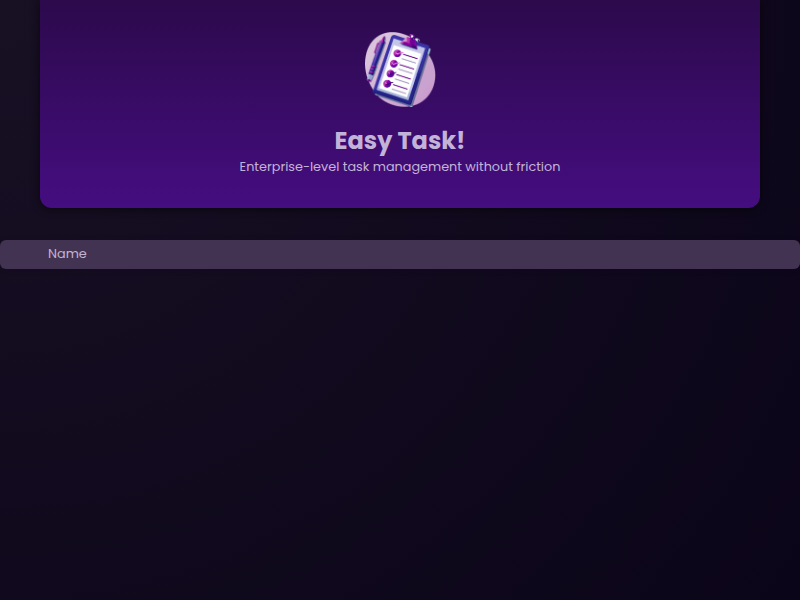
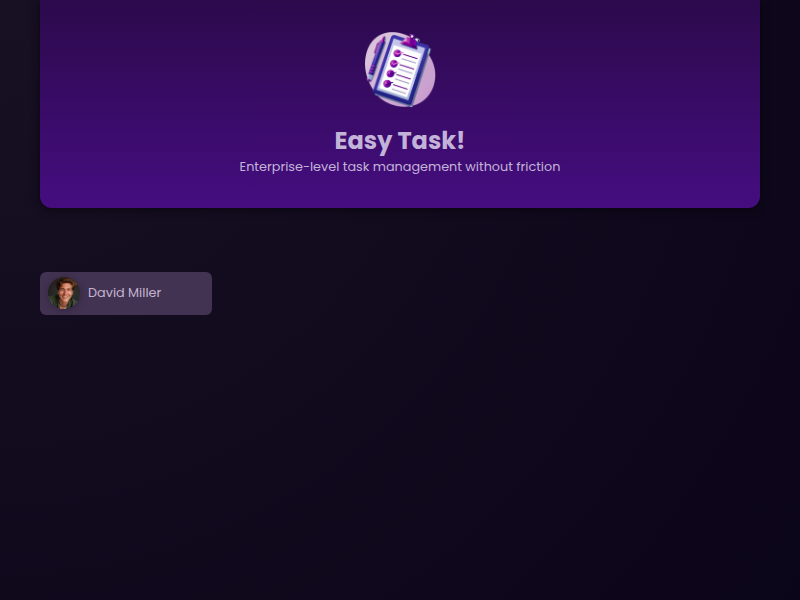
User_II

Changed region(s): [[0.0, 0.39, 1.0, 0.54]]

diff --git a/src/app/dummy-users.ts b/src/app/dummy-users.ts
@@ -1,0 +1,32 @@
+export const DUMMY_USERS = [
+  {
+    id: 'u1',
+    name: 'Jasmine Washington',
+    avatar: 'user-1.jpg',
+  },
+  {
+    id: 'u2',
+    name: 'Emily Thompson',
+    avatar: 'user-2.jpg',
+  },
+  {
+    id: 'u3',
+    name: 'Marcus Johnson',
+    avatar: 'user-3.jpg',
+  },
+  {
+    id: 'u4',
+    name: 'David Miller',
+    avatar: 'user-4.jpg',
+  },
+  {
+    id: 'u5',
+    name: 'Priya Patel',
+    avatar: 'user-5.jpg',
+  },
+  {
+    id: 'u6',
+    name: 'Arjun Singh',
+    avatar: 'user-6.jpg',
+  },
+];

diff --git a/src/app/user/user.component.ts b/src/app/user/user.component.ts
@@ -1,12 +1,14 @@
 import { Component } from '@angular/core';
+import { DUMMY_USERS } from '../dummy-users';
 
+const randomIndex = Math.floor(Math.random() * DUMMY_USERS.length);
 @Component({
   selector: 'app-user',
   standalone: true,
   imports: [],
   templateUrl: './user.component.html',
-  styleUrl: './user.component.css'
+  styleUrl: './user.component.css',
 })
 export class UserComponent {
-
+  selectedUser = DUMMY_USERS[randomIndex];
 }

diff --git a/src/app/user/user.component.html b/src/app/user/user.component.html
@@ -1,6 +1,9 @@
 <div>
   <button>
-    <img />
-    <span> Name </span>
+    <img
+      [src]="'assets/users/' + selectedUser.avatar"
+      [alt]="selectedUser.name"
+    />
+    <span>{{ selectedUser.name }}</span>
   </button>
 </div>

diff --git a/src/app/app.component.html b/src/app/app.component.html
@@ -1,2 +1,8 @@
 <app-header></app-header>
-<app-user></app-user>
+<main>
+  <ul id="users">
+    <li>
+      <app-user></app-user>
+    </li>
+  </ul>
+</main>

diff --git a/README.md b/README.md
@@ -1,22 +1,29 @@
-# **Commit: User_I**
+# **Commit: User_II**
 
-## Objetivo: Crea un componente User
+## Objetivo: Mostrar información dínamica en user
 
-copia los archivos:
+importa dummy-user en user
+crea una propiedad selectedUser que sea igual azarosamente,
+a uno de los usuarios del array importado
+pista:
 
-- user.component.css
-- app.component.css
-
-crea un componente que consista en:
-un div que envuelve un boton que contiene una imagen y un span
-
-```bash
-ng generate component header --skip-tests
+```ts
+const randomIndex = Math.floor(Math.random() * DUMMY_USERS.length);
 ```
 
-importa la clase a app.component.ts y el selector al html
+Añade en el user.component.html:
+
+- en el span, añade el nombre del usuario seleccionado por string interpolation
+- en la imagen , haz property binding a la ruta.
+  pista: "'string_literal' + string_var"
+
+haz que la etiqueta de app-user este envuelta con una etiqueta main
+crea una lista con el atributo id="users"
+y envuelve app-user en el elemento lista
 
 ## VISUALIZACION
 
 - Abre localhost:4200 en el navegador deberias ver:
-  ![User_I_Layout](./htmlOutput.png)
+  ![User_II_Layout](./htmlOutput.png)
+  cada vez que recargas la pagina deberia aparecer un
+  user aleatorio.
